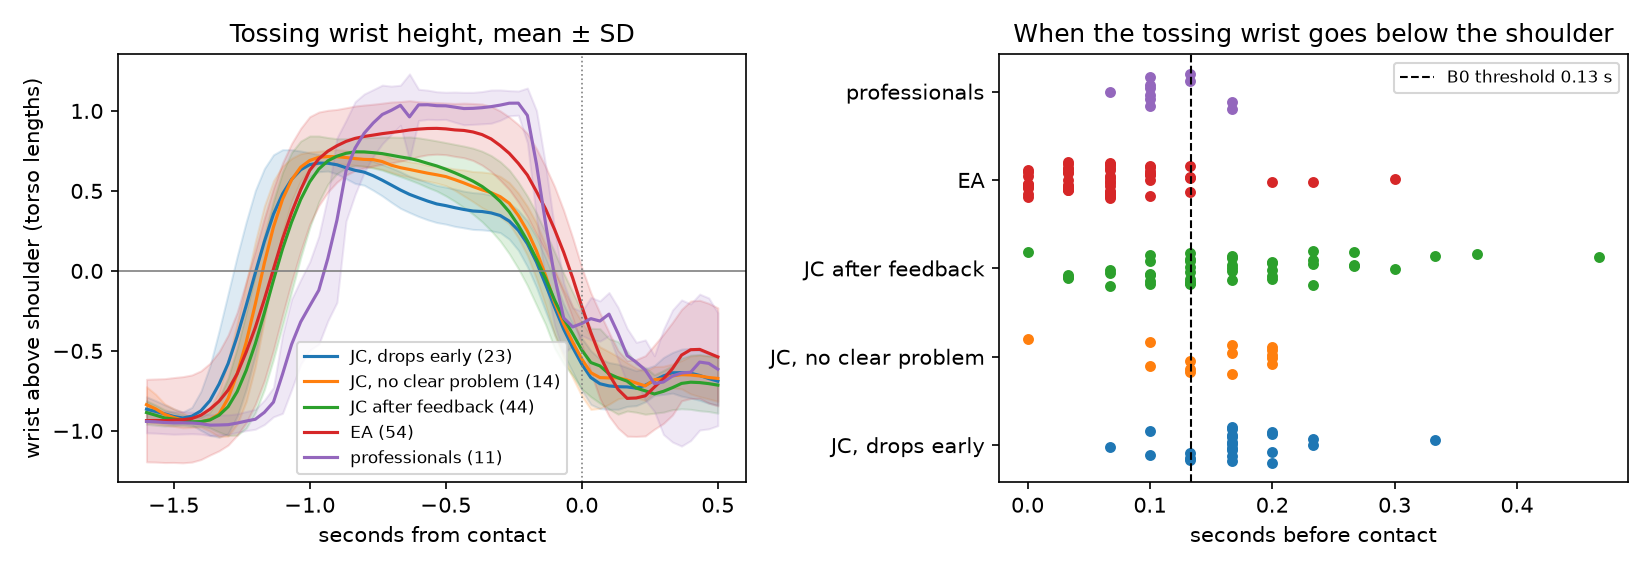
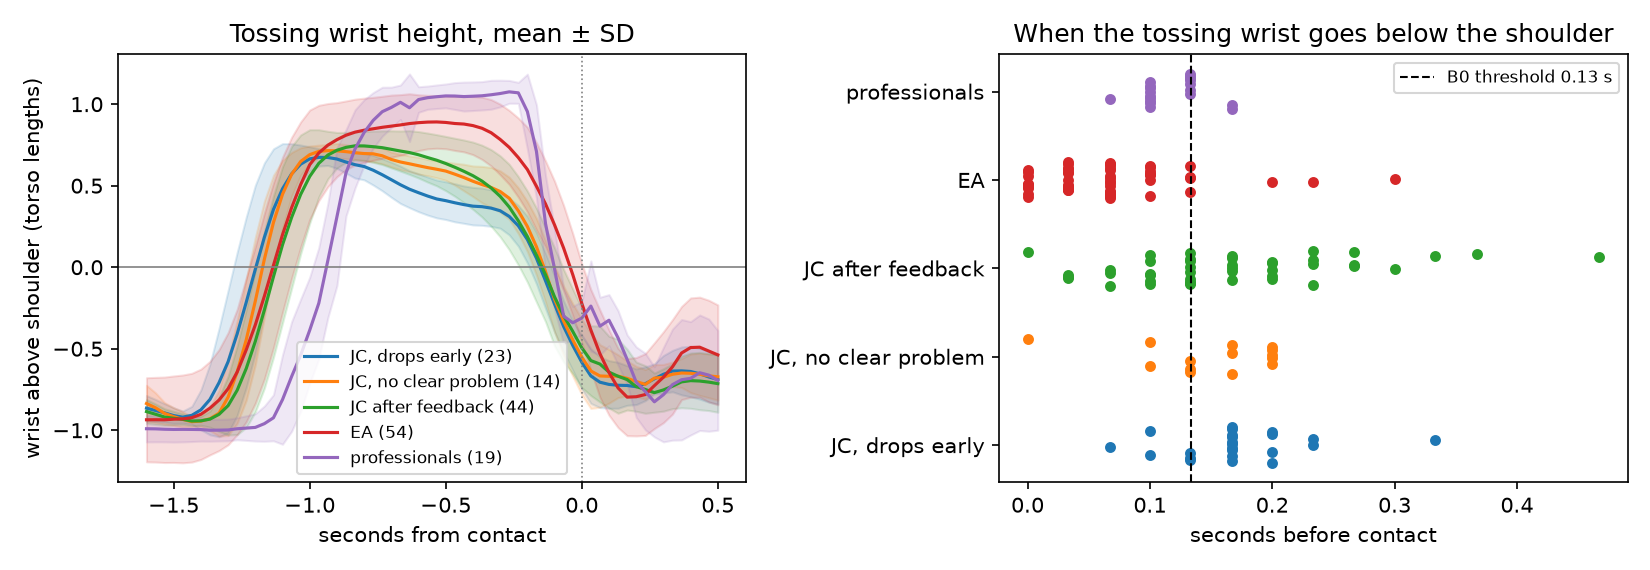
data(pro04): Federer's serves in the new-player check

diff --git a/strokes/serve/dataset.py b/strokes/serve/dataset.py
@@ -33,9 +33,10 @@ TOSS = 0.4  # torso lengths a wrist rises above the shoulders while the ball goe
 # Never used to train or pretrain: the session filmed on Nov 1 and one professional
 TEST_VIDEOS = {f"jc-s{i}" for i in range(28, 44)}
 TEST_PLAYERS = {"pro01"}
-# Recorded on Nov 7, after the models were chosen: a new amateur and JC after the feedback. Scored
-# by eval/bias.py; trained on only through train.py --more (M1d), never pretrained on.
-NEW = ("ea-", "jc-post")
+# Added after the models were chosen: a new amateur and JC after the feedback (recorded on Nov 7)
+# and a fourth professional (pro04, slow-motion videos found online, Nov 8). Scored by
+# eval/bias.py; trained on only through train.py --more (M1d), never pretrained on.
+NEW = ("ea-", "jc-post", "pro04")
 
 
 def contact(keypoints: np.ndarray, fps: float) -> int:

diff --git a/eval/bias.py b/eval/bias.py
@@ -110,7 +110,7 @@ def new_players(data, loaded: dict, cuts: dict) -> list[dict]:
     kept = (model.shoulder_width(x) >= model.MIN_SHOULDERS) & (
         train.arms(x, mask)[1].mean((1, 2)) >= service.MIN_SEEN
     )
-    names = {"jc": "JC after feedback", "ea": "EA"}
+    names = {"jc": "JC after feedback", "ea": "EA", "pro04": "pro04 (slowed down)"}
     rows = []
     for name in MODELS:
         said = predict(name, loaded, x, mask) >= cuts[name]

diff --git a/README.md b/README.md
@@ -173,7 +173,13 @@ uv run python -m strokes.serve.split find data/raw/uncut/*.MOV
 uv run python -m strokes.serve.split cut data/raw/uncut/ea_2.MOV --name ea-2 --drop 1,5,8 [--add 262.0]
 ```
 
-There is no coach: both members label each serve on their own, compare, and write the agreed labels in `eval/serve/labels.csv` (guide in [data/README.md](data/README.md)). The labeling tool lists only the videos the member has not labeled yet, new clips included:
+A video already slowed down (slow motion played back at 24 or 30 fps) is cut with `retime`: give how many times slower than real it plays and the seconds of each serve in it, and each serve is written at real speed and at most 60 fps, so the windows have the same timing as the other clips; `retimed.csv` next to the video records them. When the video does not say how much it was slowed down, the tossed ball tells: in free fall it accelerates at g, so in the video at g/k² for a factor k, with the torso (about 0.53 m) as the ruler. On the Federer videos this gave 9.3 to 9.7 (a 240 fps camera played at 24 fps: 10) and 7.8 (240 at 30 fps: 8).
+
+```bash
+uv run python -m strokes.serve.split retime data/raw/roger/side.mp4 --name pro04 --slow 8 --spans 0-32.5
+```
+
+There is no coach: both members label each serve on their own, compare, and write the agreed labels in `eval/serve/labels.csv` (guide in [data/README.md](data/README.md)). The labeling tool lists only the videos the member has not labeled yet, new clips included; clips already in `labels.csv` that the team asked someone else to label (Federer's, pro04) are not listed, and saving the agreement keeps them:
 
 ```bash
 uv run python -m eval.label      # labeling tool, http://127.0.0.1:7861
@@ -268,7 +274,7 @@ Bias and robustness (`eval/bias.py`, `experiments/serve/bias.csv` and `bias.png`
 - **Fewer points seen.** With 10 to 40 % of the arm points of the test windows set unseen and interpolated, as with worse light or a farther camera, M1c's mean probability rises from 0.49 to 0.62 and it calls "drops early" on 94 % of the serves instead of 89 %; M2c stays between 0.56 and 0.59 (89 %) and B0 hardly moves. Pretraining, which hides stretches of the arms, made M2c robust to missing points. The app also asks for a new recording under 70 % of the points seen and lowers the confidence under 85 %.
 - **Left-handed players.** The arm models put the tossing arm on the same side, so a mirrored window gives the same probability (largest change 0).
 - **Camera in front of the player.** On THETIS, filmed from in front of the player, the models call "drops early" on 73 to 93 % of the serves, experts included (B0 82 % of beginners and 93 % of experts, M1c 77 and 73 %, M2c 89 and 87 %): they never saw that view. The app now checks the camera before it answers: when the shoulders are less than 0.4 torso lengths apart across the image in the stance (the first 0.53 s of the window, `strokes.serve.model.shoulder_width`), one shoulder hides the other and the video is recorded again. On our videos only 5 the team could not judge fall under the line (0.17 to 0.36; every judged serve 0.47 or more); on THETIS, 79 % of the serves. The 21 % left still get the same false alarms (M1c 69 %, M2c 87 %), so the recording guide stays the main defense.
-- **Players recorded after the models were chosen.** On Nov 7, with the models and thresholds already fixed, two sessions were cut into clips (split `new` of `strokes/serve/dataset.py`, never used to train, pretrain or choose): a new amateur, EA, and JC after the feedback. The two raters agreed on all of them except 4 clips of JC with no serve, settled together, and judged all 98 serves without the fault: EA 54, JC 44. The file names said which session each clip came from, so these labels are not blind. Scored as they are, the models call "drops early" on EA's serves B0 13 %, M1c 80 %, M2c 57 %, and on JC's after the feedback B0 70 %, M1c and M2c 100 %; the app sends back only 3 of EA's. The trained models do not carry over to a new player and do not see JC's change; B0, a single hand-made measure, carries over best to EA. That measure hardly moves for JC (median 0.15 s before contact after the feedback, 0.17 s before it), while the mean height of his tossing wrist after the feedback stays up longer, like his serves without the fault (`eda.png`).
+- **Players recorded after the models were chosen.** On Nov 7, with the models and thresholds already fixed, two sessions were cut into clips (split `new` of `strokes/serve/dataset.py`, never used to train, pretrain or choose): a new amateur, EA, and JC after the feedback. The two raters agreed on all of them except 4 clips of JC with no serve, settled together, and judged all 98 serves without the fault: EA 54, JC 44. The file names said which session each clip came from, so these labels are not blind. Scored as they are, the models call "drops early" on EA's serves B0 13 %, M1c 80 %, M2c 57 %, and on JC's after the feedback B0 70 %, M1c and M2c 100 %; the app sends back only 3 of EA's. The trained models do not carry over to a new player and do not see JC's change; B0, a single hand-made measure, carries over best to EA. A fourth professional, Federer (pro04, 8 serves from slowed-down videos found online, played at real speed with `retime`), was labeled by Claude at the team's request, not watched by the team: on all 8 the tossing hand is still above the head when the racket is lowest. M1c and M2c call none of them "drops early", M1d 1, B0 5 (62.5 %): his tossing wrist goes below the shoulder 0.10 to 0.13 s before contact (3 and 4 frames at 30 fps; the other professionals' median is 0.10 s), right on the rule's line at 0.133 s, so B0 calls a professional serve early by a single frame. That measure hardly moves for JC (median 0.15 s before contact after the feedback, 0.17 s before it), while the mean height of his tossing wrist after the feedback stays up longer, like his serves without the fault (`eda.png`).
 - **More data without the fault (M1d).** M1d is M1c trained with JC's 44 serves after the feedback too (`--arms --epochs 85 --more jc-post`); EA stays unseen. Its validation scores (AUROC 0.86, Q43.17) include those 44 serves, which it tells apart easily, so they do not compare with the other models'. It calls "drops early" on 17 % of EA's serves (M1c 80 %) and on 1 % of the THETIS beginners and 13 % of the experts, but on test it finds 71 % of the faults (M1c 100 %) and is worth Q10.51 (M1c Q32.97), and on JC's serves before the feedback it calls "drops early" on 91 % of the 14 without the fault and 83 % of the 23 with it. Every serve with the fault was filmed from one side of the player (the tossing arm on the right of the image) and every serve of Nov 7 from the other (on the left), so M1d most likely learned the camera side and the session, not the fault. It does not replace M1c. The data that would help are serves with the fault filmed the way the Nov 7 sessions were.
 
 **Limitation: what the app's answer means.** No model here has yet shown that it sees the fault in a player it was not trained on, and the serves recorded after the models were chosen confirm it: M1c calls "drops early" on 80 % of a new amateur's serves and on all of JC's after the feedback, every one judged without the fault. Every serve with the fault comes from one amateur, only 3 of JC's test serves are without it, and within JC the rankings are near chance. On JC's serves without the fault M1c recommends the drill 97 % of the time, so for a new amateur "drops early" should be read as "an amateur serve, the drill is worth trying", not as a measured fault; a false alarm costs a drill the player did not need. The app says how far to trust it: next to every answer it shows the model's test rates (the drill recommended on 64 % of the test serves without the fault) and the confidence. M1c also reads unseen arm points as a sign of the fault, so the new recording under 70 % of the points seen and the low confidence under 85 % matter more with it than with M2c. What would lift the limitation: the improvement study's amateurs, with and without the fault, recorded the same way; then retraining, and the within-player check of `eval/bias.py` again.
